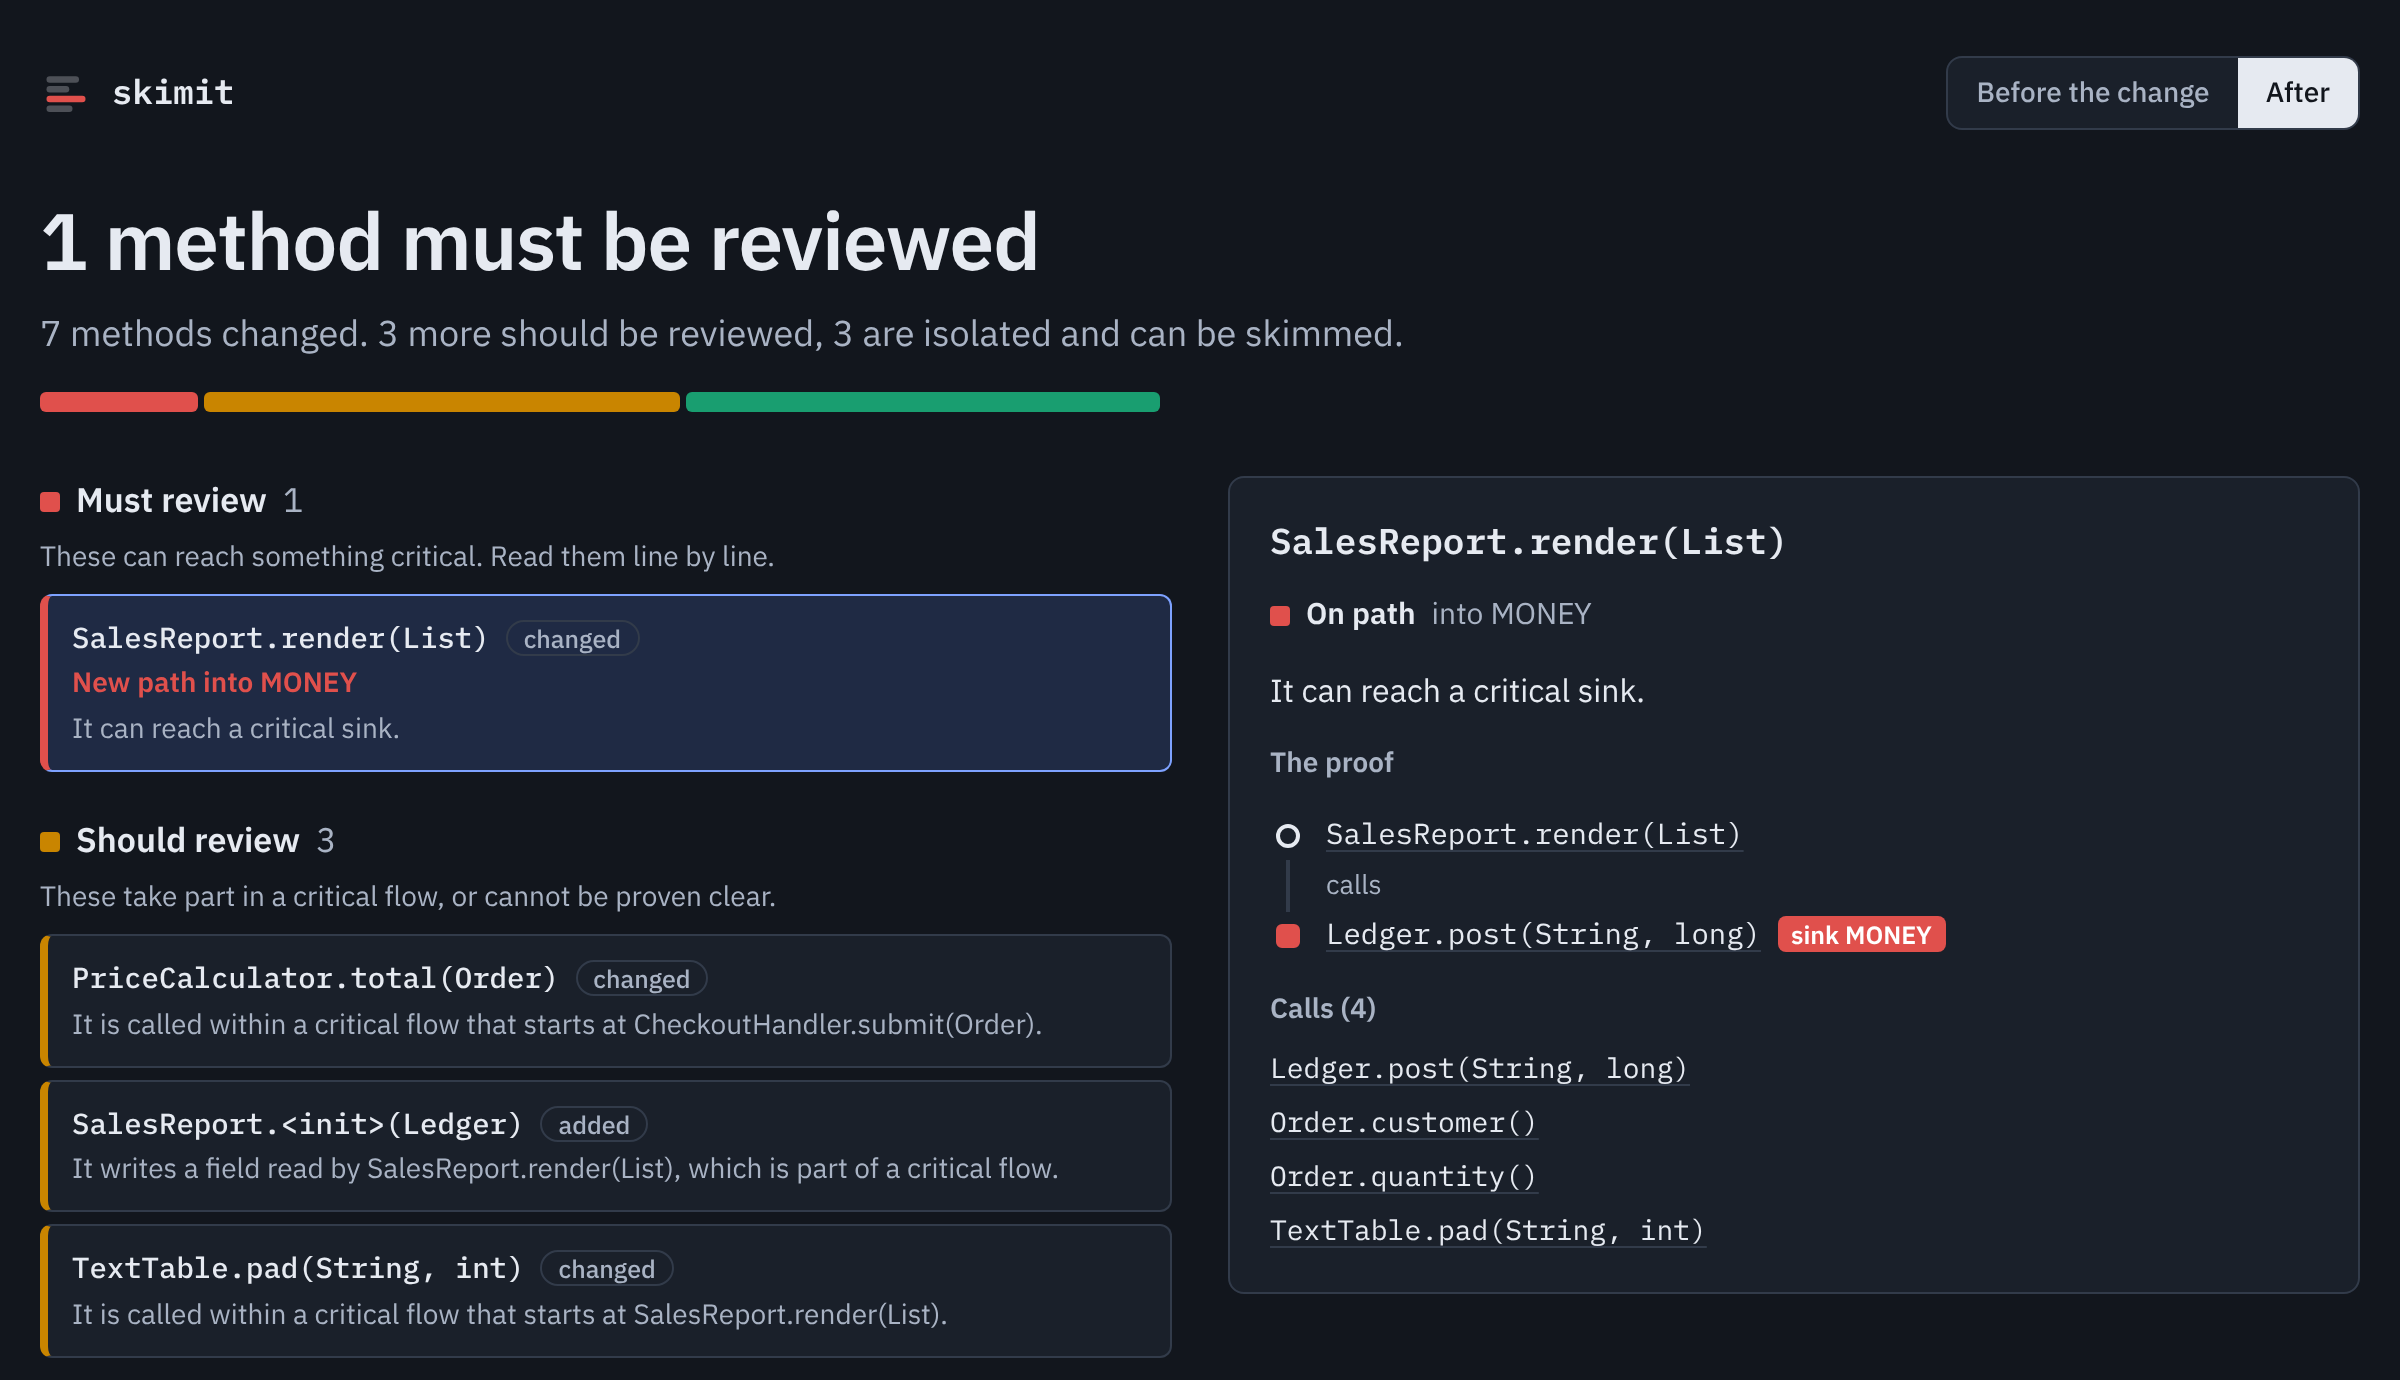
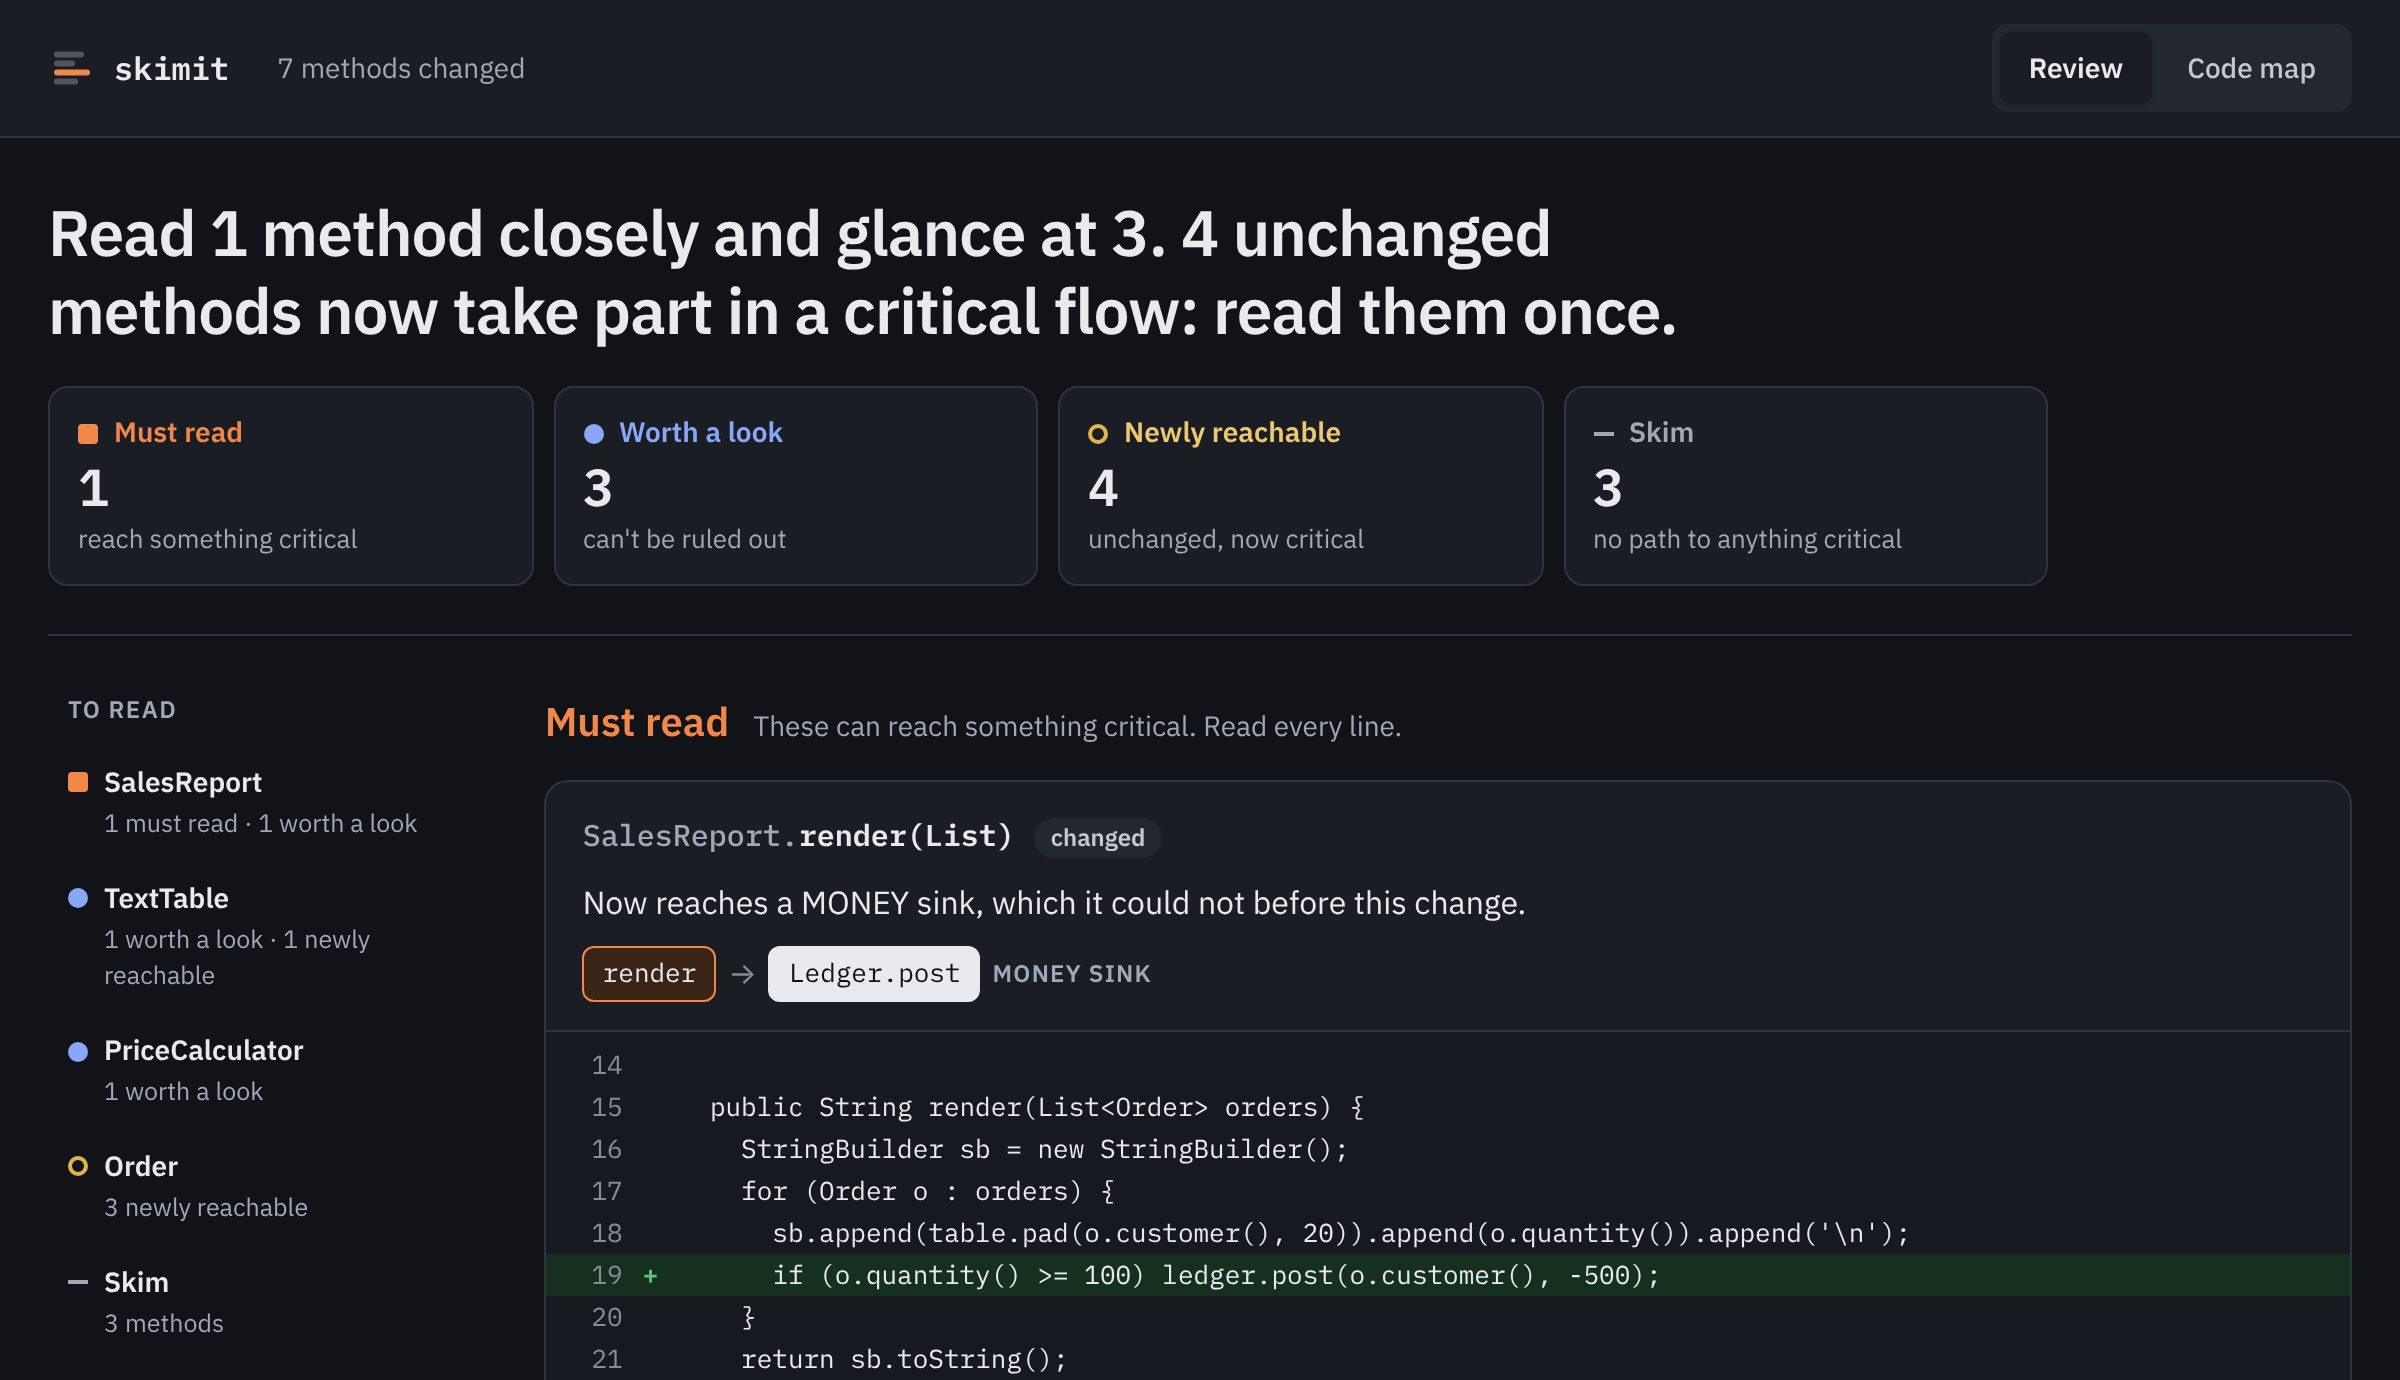
Action and demo pass the source diff; docs and changelog for the new report
The Action writes git diff base..head next to the manifest and passes it with
--diff, so the attached report shows each changed method's lines. The README's
sample output, bucket names and screenshots follow the new report; usage and
how-it-works describe --diff and how moved classes are matched.

diff --git a/README.md b/README.md
@@ -24,7 +24,7 @@ can reach something critical.
 <p align="center">
   <picture>
     <source media="(prefers-color-scheme: dark)" srcset="docs/report-dark.png">
-    <img src="docs/report-light.png" alt="The skimit report for a pull request: one method must be reviewed, with the call chain that proves it" width="820">
+    <img src="docs/report-light.png" alt="The skimit report for a pull request: one method to read closely, with the reason, the path to the critical call and the lines that changed" width="820">
   </picture>
 </p>
 
@@ -45,12 +45,16 @@ With Gradle, point it at `build/classes/java/main` instead.
 For the example pull request in this repository, it prints:
 
 ```
-7 methods changed: 1 must review, 3 should review, 3 isolated.
+## skimit: Read 1 method closely and glance at 3. 4 unchanged methods now take part in a critical flow: read them once.
 
-Must review: on a critical path
-- SalesReport.render(List) (changed) [MONEY] NEW PATH into MONEY
-  - SalesReport.render(List) calls Ledger.post(String, long)
+**Must read** (1): can reach something critical. Read every line.
+
+- `SalesReport.render(List)` changed
+  Now reaches a MONEY sink, which it could not before this change: `Ledger.post`
 ```
+
+Add `--diff changes.diff` (a `git diff` of the same change) and the HTML report shows each
+method's own lines next to the reason to read it.
 
 That is all a first run on your own code needs. No annotations, no configuration: out of the
 box, every data write counts as critical: through your repositories, mappers and DAOs, or
@@ -109,12 +113,14 @@ It only reports unless you ask it to fail the job or comment on the pull request
 
 | Bucket | What it means | What to do |
 |---|---|---|
-| **Must review** | The method can reach something you marked critical. | Read it line by line. |
-| **Should review** | It takes part in a critical flow, or cannot be proven clear. | Check it. |
-| **Isolated** | Nothing connects it to anything critical. | Skim the body. |
+| **Must read** | The method can reach something you marked critical. | Read it line by line. |
+| **Worth a look** | It takes part in a critical flow, or cannot be proven clear. | Check it. |
+| **Skim** | Nothing connects it to anything critical (`ISOLATED`). | Skim the body. |
 
 Changes to class structure and public API are listed separately, so a senior reviewer can judge the
-design without reading every body.
+design without reading every body. Unchanged methods that a change newly connects to a critical
+flow are listed too, and a class that only moved or was renamed is compared with what it was
+instead of counting as all new.
 
 ## Does it work?
 

diff --git a/CHANGELOG.md b/CHANGELOG.md
@@ -2,6 +2,24 @@
 
 ## Unreleased
 
+- **A report that says what to read.** The manifest and the HTML report open with one sentence
+  ("Read 1 method closely and glance at 1."), name the buckets *Must read*, *Worth a look* and
+  *Skim*, and give each method a reason in words with the path to what it reaches
+  ("Reaches a data write: `ClinicServiceImpl.savePet` → `PetRepository.save`"). Skimmed methods
+  and structure changes are folded away by class. The HTML report's Review view groups methods by
+  class with the proof a click away; the code map moves to its own tab with plain labels. The JSON
+  gains `headline`, and `says` and `path` for each change.
+- **Each changed method's own lines.** With `--diff` (a `git diff` of the sources), the report
+  shows the lines of the diff that fall within each changed method, found from the source file and
+  line numbers in its bytecode. Verdicts never depend on it. The GitHub Action passes it.
+- **Moved and renamed classes are compared with what they were.** A class that existed only after
+  the change is paired with the one that existed only before it whose methods it repeats once the
+  new name is read as the old one. Methods that did not change are no longer listed as removed and
+  added; an edit inside a moved class is reported against the method it was (`was` in the JSON),
+  and the moves are listed on their own (`moves`). On a PetClinic REST commit that moved eight
+  controllers into a `v1` package, the manifest went from 134 changed methods with 42 to review
+  closely to 48 changed methods with none.
+
 - **A method that hands an object it was given to a library calls that object's callbacks.**
   0.1.7 linked a callback parameter to what callers pass in only for `java.util.function` types,
   `Runnable` and `Callable`. Now any parameter of a library type counts: a method that runs it or

diff --git a/docs/usage.md b/docs/usage.md
@@ -17,9 +17,26 @@ java -jar skimit.jar diff --base base/target/classes --head head/target/classes 
     --json manifest.json --exit-code
 ```
 
-Add `--html report.html` to either command for the interactive report: what to review and why, the proof
-for whichever method you select, and a map of every class coloured by verdict.
-It is one self-contained file, so a CI job can attach it to the build.
+Add `--html report.html` to either command for the interactive report. For a diff it opens on
+what to read: one sentence, then each method worth reading with the reason in words and the path
+to what it reaches, with the proof a click away. A second tab maps every class and method by
+verdict. It is one self-contained file, so a CI job can attach it to the build.
+
+Pass the source diff as well and the report shows each changed method's own lines next to the
+reason to read it:
+
+```
+git diff base-sha head-sha > changes.diff
+java -jar skimit.jar diff --base ... --head ... --diff changes.diff --html report.html
+```
+
+skimit finds a method's lines from the source file and line numbers in its bytecode, so the
+classes need their debug information (javac and Gradle keep it by default). The diff is only shown,
+never analysed: verdicts come from the bytecode alone. The GitHub Action passes it for you.
+
+A class that moved to another package or was renamed is compared with what it was. Its methods
+whose code did not change are not listed as changes, and an edit inside it is reported against the
+method it was; the manifest lists the moves on their own.
 
 Inputs are class directories or jars, as many as you like, from any build tool: Maven puts classes
 in `target/classes`, Gradle in `build/classes/java/main`, one per module. `--exit-code` returns 1 when anything

diff --git a/docs/how-it-works.md b/docs/how-it-works.md
@@ -70,6 +70,19 @@ is known instead by its enclosing method and its place among that method's lambd
 type, and is matched across the change by an identical body first. Adding a lambda to one method
 leaves the others, and their lambdas, unchanged.
 
+A class that moved or was renamed is matched with what it was. Each top-level class that exists
+only after the change is paired with one that existed only before it, when at least half the
+methods of the larger of the two are identical once the new class name is read as the old one,
+and either two of them are ordinary methods (not constructors or lambdas) or one name contains the
+other. Two tiny classes that each hold only a default constructor are alike without being the same
+class. Once paired, every method is compared with the method it was, and the same reading of names
+applies to code elsewhere that only switched to the new name, so a pure move leaves nothing to read.
+
+The report can show each change's own lines of a source diff given with `--diff`. Debug
+information is dropped before anything is compared; it is read separately, only to find the source
+file and line range each method was compiled from, and the lines of the diff within that range are
+shown with the method.
+
 ---
 
 [Back to the README](../README.md)
